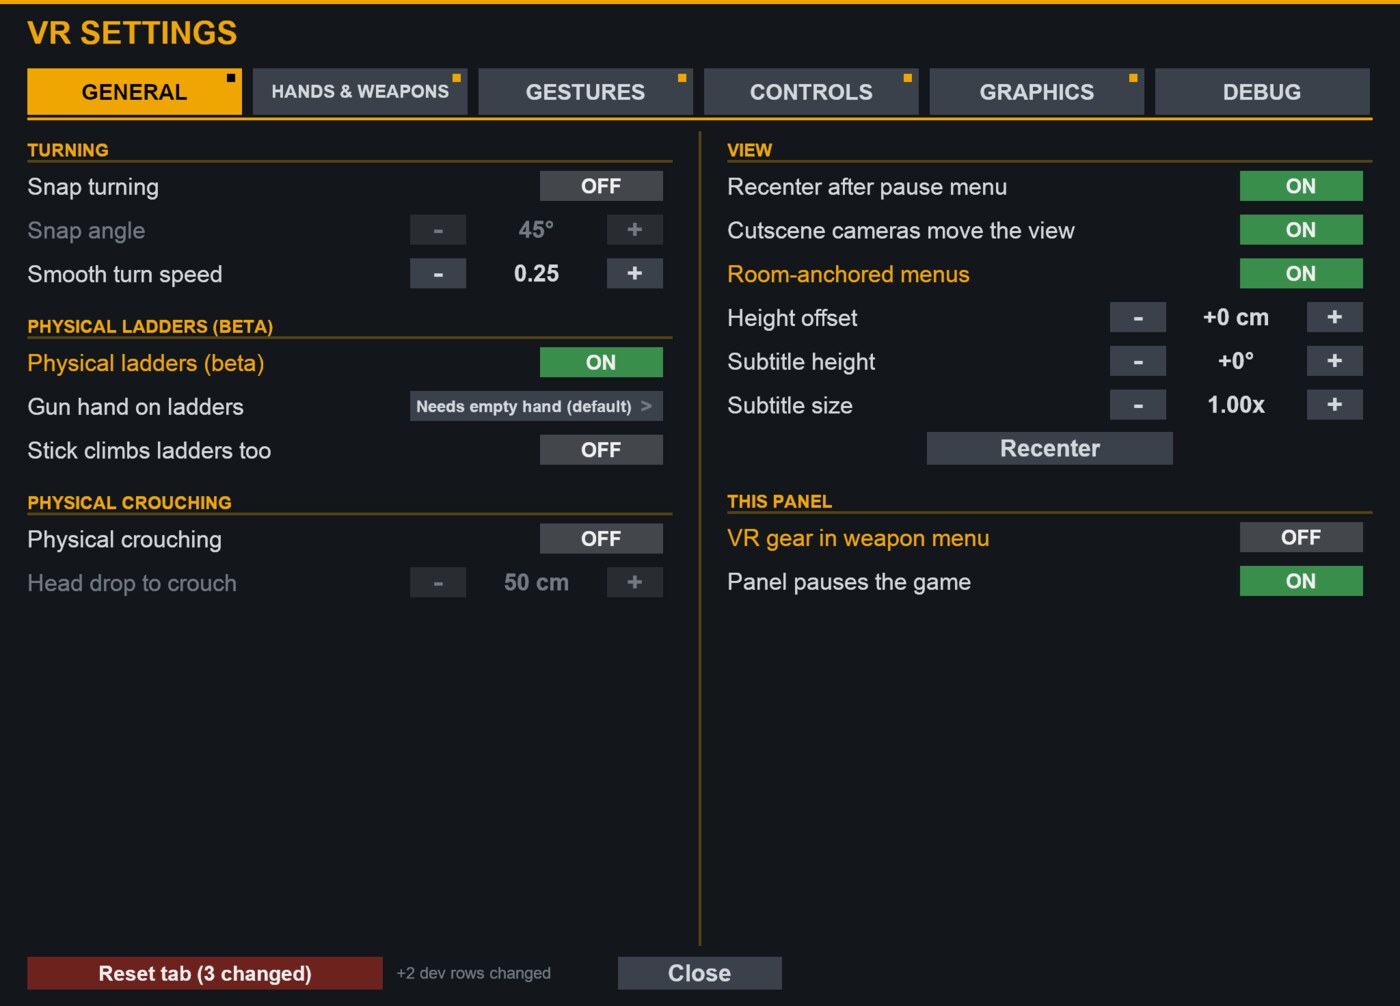
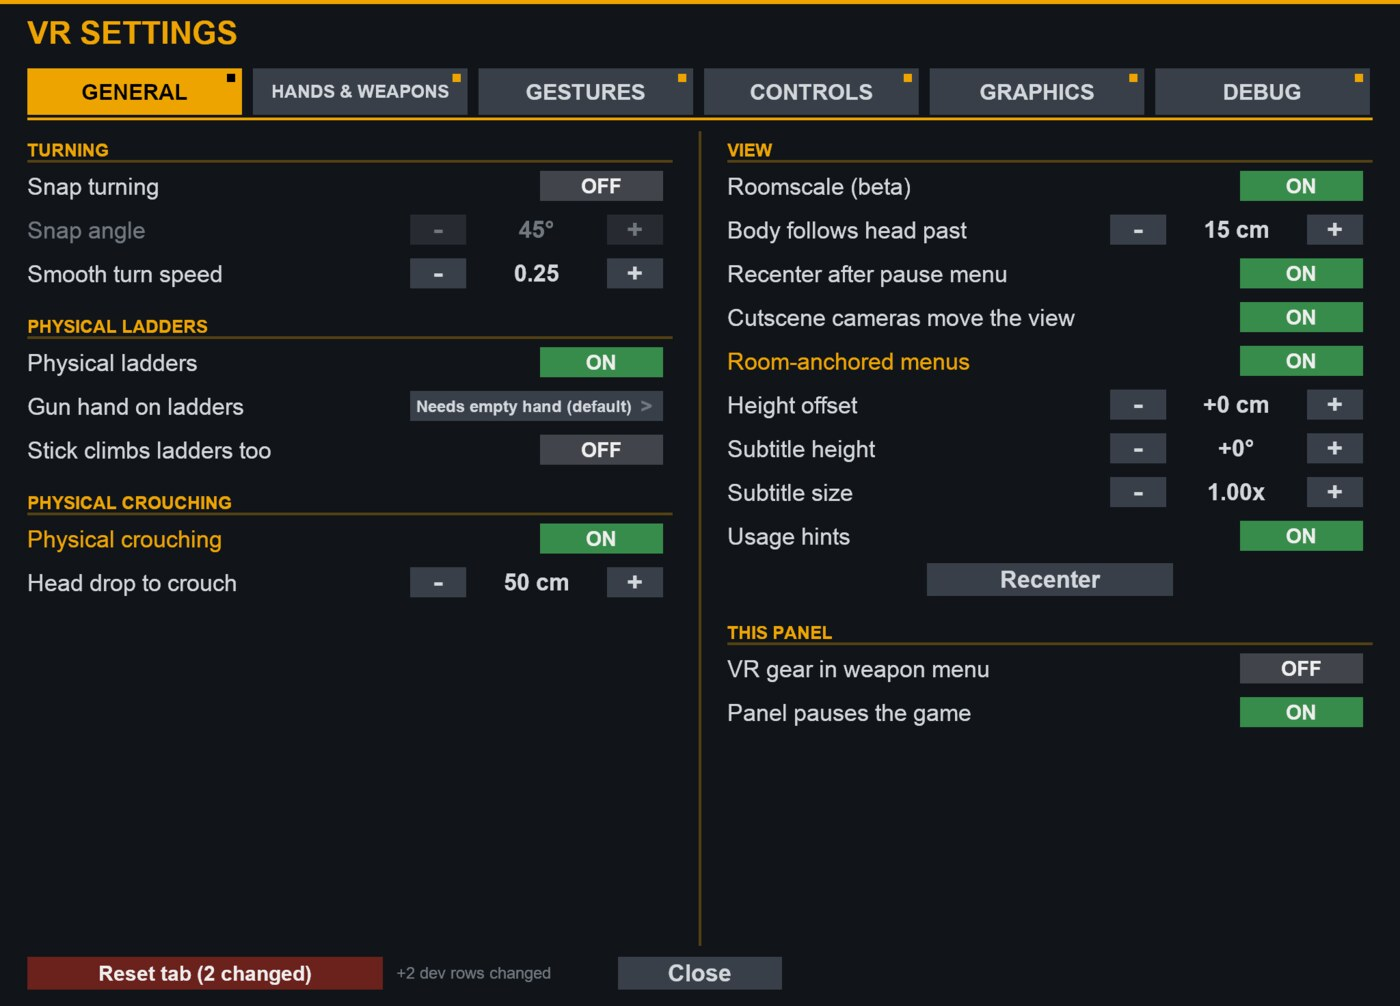
README: new panel screenshots, roomscale, locked-in hands, god rays, pause-menu VR SETTINGS
Screenshots taken headless with the user's live settings (bms-149, developer
rows off). The VR settings gear in the weapon wheel is off by default now, so
both READMEs point to the pause menu button instead.

Claude-Session: https://claude.ai/code/session_01EWjtma3yh3STChgqd6aZQP

diff --git a/README.md b/README.md
@@ -31,7 +31,7 @@ A macOS version lives here: https://github.com/armax9/black-mesa-vr-macos
   "Dynamic" zones keep what you put away there), the left hand does an action (quick save, flashlight, ammo, quick
   load, screenshot into the Steam library, recenter; default: left shoulder quick save, left hip ammo, forehead flashlight).
 - **Crowbar swinging** that hits where you swing (HL2VR style).
-- **HL2VR-style weapon wheel**, with the VR settings gear below the crowbar.
+- **HL2VR-style weapon wheel** (the VR settings gear below the crowbar is optional, General > This panel).
 - **Grenades thrown at the speed of your hand.**
 - **Crossbow scope built for VR:** bring the crossbow to your face with both hands to zoom; the zoomed view follows the
   crossbow, with smoothing for hand tremor.
@@ -40,6 +40,8 @@ A macOS version lives here: https://github.com/armax9/black-mesa-vr-macos
   face it exactly as the game normally wants. With **Physical ladders** (General tab, on by default) you climb hand
   over hand by the rungs.
 - **Per-hand item holding and use.**
+- **Gun, hands, HUD and laser locked together:** all drawn from one tracking sample for both eyes, so nothing jitters
+  or lags behind in heavy scenes or fast moves.
 - **Health, suit and ammo on your hands**, an ammo counter on the weapon, and a **short red flash over the view when
   you get hit**.
 - **Usage hints:** short messages the first times you carry a prop or take a mounted gun, naming your own alt-fire
@@ -49,6 +51,8 @@ A macOS version lives here: https://github.com/armax9/black-mesa-vr-macos
 - Snap or smooth turning, crouch while held or toggle, sprint toggle, recenter. Cutscene cameras can take your view
   with them as the scene was made; turn that off if it is too much for your VR legs.
 - **Physical crouching** (optional, General tab): crouch in real life to crouch in the game.
+- **Roomscale (beta, on by default):** walk around your play space and your body follows your head, also on trains
+  and trams. General > View.
 - **Subtitles / closed captions** below your view when they are on in the game's audio options; height and size in
   General > View.
 - **Bare hands until you get the HEV suit** (and throughout Blue Shift), HEV gloves after that.
@@ -66,13 +70,15 @@ A macOS version lives here: https://github.com/armax9/black-mesa-vr-macos
 - **FXAA tuned for VR**, with Sharp / Balanced / Smooth presets.
 - **Less shimmer:** calmer cubemap reflections on shiny walls and floors (Full / Balanced / Subtle), lens flares,
   light glows and smoke that stay level and agree between the eyes.
+- **God rays made for VR:** the blur runs at quarter size (blur 0.80 -> 0.17 ms per frame, same look), and the shafts
+  stay steady when you look up or down.
 - **MulticoreMode:** the game's render thread runs next to the game, and heavy outdoor areas keep a much higher
   frame rate than before.
 - Many fixes for things that only break in VR: water and mirror reflections per eye, objects popping in one eye,
   glows shining through walls, Xen fog, and more.
 
 ### The VR settings panel
-**Hold Triangle/Y** (about half a second) or pick the gear in the weapon wheel. Six tabs:
+**Hold Triangle/Y** (about half a second) or click **VR SETTINGS** on the pause menu. Six tabs:
 - **General:** turning, ladders, view, usage hints, menus.
 
   <img src="docs/images/panel-general.jpg" alt="VR settings: General tab" width="90%">
